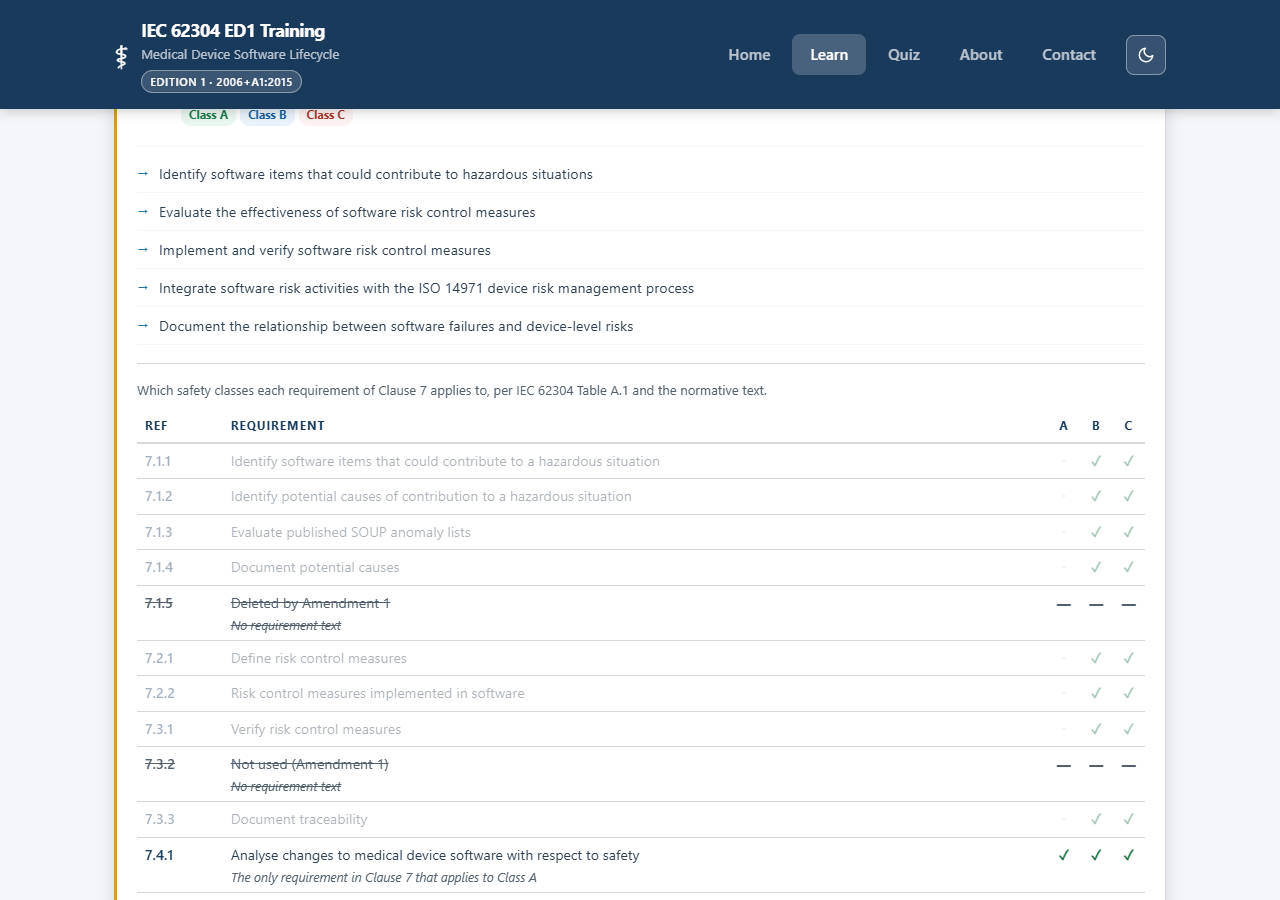
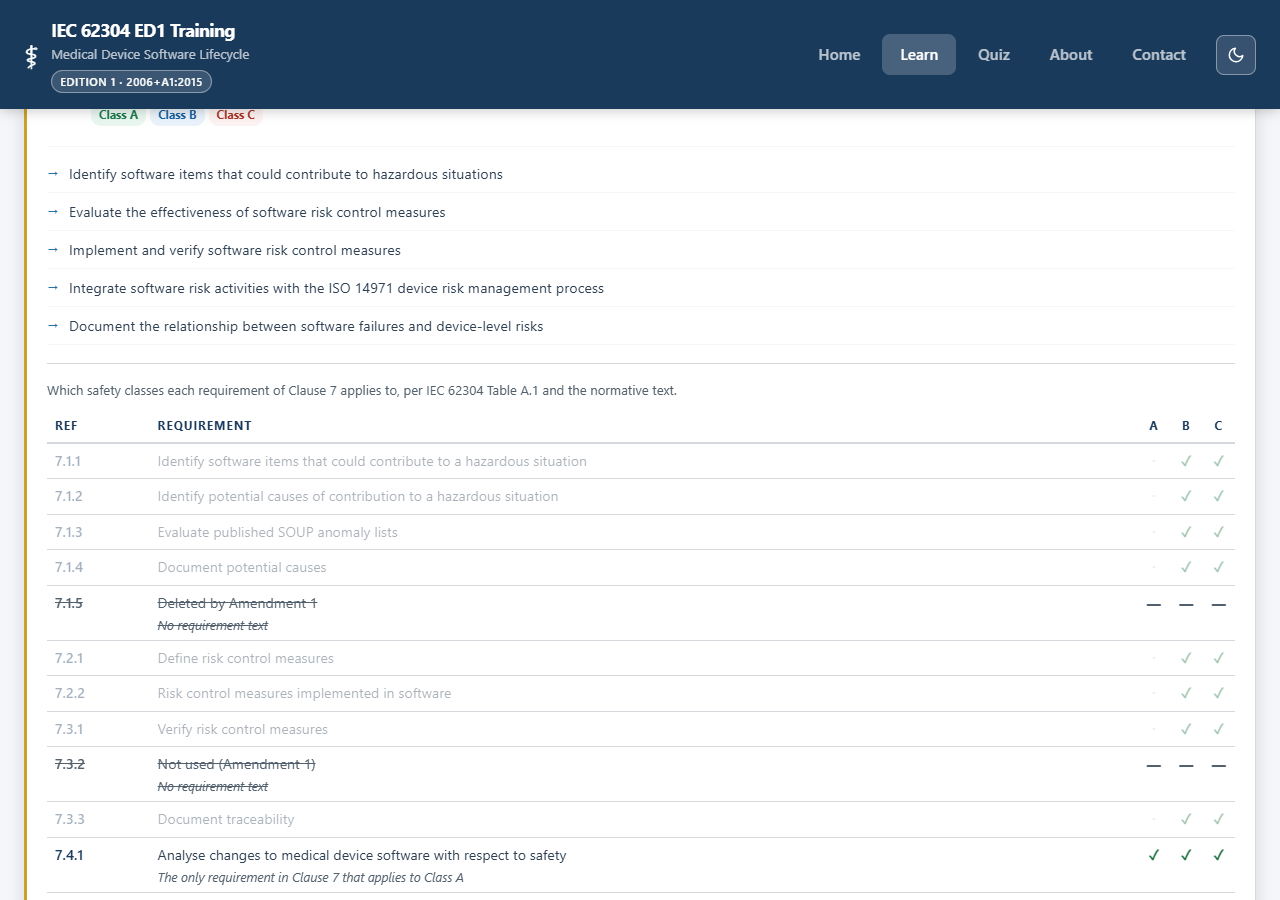
Update Index sheet to widen content for very wide screens and add an image to remove dead/white space.

diff --git a/style.css b/style.css
@@ -237,7 +237,7 @@ a {
 /* ===== LAYOUT ===== */
 
 .container {
-  max-width: 1100px;
+  max-width: 1320px;
   margin: 0 auto;
   padding: 0 24px;
 }
@@ -673,12 +673,44 @@ a {
 
 .hero {
   display: grid;
-  grid-template-columns: 1fr auto;
-  gap: 48px;
+  grid-template-columns: 1fr auto auto;
+  gap: 40px;
   align-items: center;
   padding: 48px 0;
   border-bottom: 1px solid var(--border);
   margin-bottom: 48px;
+}
+
+/* Sits in the middle column that opened up once .container went to 1320px
+   (see the comment there) — without it, that column was just dead air
+   between the hero text and the stat cards. Shown in its original colour
+   rather than the site's navy palette, by request — a tinted version was
+   mocked up alongside this one if that's revisited later. Purely
+   decorative (empty alt), so it is skipped in the tab order rather than
+   given one.
+
+   The PNG has an opaque white background baked into its pixels (checked:
+   no alpha/tRNS chunk), so it cannot blend into the page the way an
+   .info-card does by inheriting var(--bg-white) — that variable turns dark
+   in dark theme, but the image's own pixels can't follow it. Framing it in
+   a literal, always-white card (like a photo in a white mount) turns what
+   would otherwise be a glaring rectangle in dark mode into a deliberate
+   card, matching the bordered/shadowed language every other panel on this
+   page already uses. */
+.hero-image-wrap {
+  width: 300px;
+  background: #ffffff;
+  border: 1px solid var(--border);
+  border-radius: var(--radius-lg);
+  box-shadow: var(--shadow);
+  padding: 14px;
+}
+
+.hero-image-wrap img {
+  display: block;
+  width: 100%;
+  height: auto;
+  border-radius: calc(var(--radius-lg) - 6px);
 }
 
 /* Version statement beneath the hero subtitle. Bordered rather than merely
@@ -3105,6 +3137,11 @@ a {
     grid-template-columns: 1fr;
     gap: 32px;
     padding: 32px 0;
+  }
+
+  .hero-image-wrap {
+    width: 200px;
+    margin: 0 auto;
   }
 
   .hero-stats {

diff --git a/index.html b/index.html
@@ -102,6 +102,15 @@
             <a class="btn btn-secondary" href="quiz.html">Take the Quiz</a>
           </div>
         </div>
+
+        <!-- Purely decorative — the hero title/subtitle already say everything
+             this illustrates, so alt is empty rather than describing the
+             picture, per WCAG: a screen reader should skip straight past it
+             instead of reading out a description that adds nothing. -->
+        <div class="hero-image-wrap">
+          <img src="assets/img/hero-illustration.png" alt="" width="1000" height="563">
+        </div>
+
         <div class="hero-stats">
           <!-- LIFECYCLE FLOW GRAPHIC — six nodes, Clause 4 through Clause 9,
                one continuous line: the standard is a single lifecycle, not

diff --git a/DESIGN.md b/DESIGN.md
@@ -285,15 +285,15 @@ The full statement lives on the privacy page under its own `#content-sources` he
 
 ### Colour palette
 
-| Token           | Value     | Use                              |
-|-----------------|-----------|----------------------------------|
-| `--primary`     | `#1a3a5c` | Header, headings, borders        |
+| Token             | Value     | Use                              |
+|-----------------  |-----------|----------------------------------|
+| `--primary`       | `#1a3a5c` | Header, headings, borders        |
 | `--primary-light` | `#2e5b8a` | Button hover states            |
-| `--accent`      | `#2980b9` | Links, filter active, quiz bar   |
-| `--success`     | `#27ae60` | Correct answers, studied state   |
-| `--danger`      | `#c0392b` | Incorrect answers, form errors   |
-| `--warning`     | `#d35400` | Timer amber/red states           |
-| `--bg`          | `#f4f6f9` | Page background, input fields    |
+| `--accent`        | `#2980b9` | Links, filter active, quiz bar   |
+| `--success`       | `#27ae60` | Correct answers, studied state   |
+| `--danger`        | `#c0392b` | Incorrect answers, form errors   |
+| `--warning`       | `#d35400` | Timer amber/red states           |
+| `--bg`            | `#f4f6f9` | Page background, input fields    |
 
 A deep navy and clinical blue palette was chosen to match the professional, regulatory context of the subject matter. The same palette is used in medical device company documentation and audit tools, so it signals credibility to the target audience.
 
